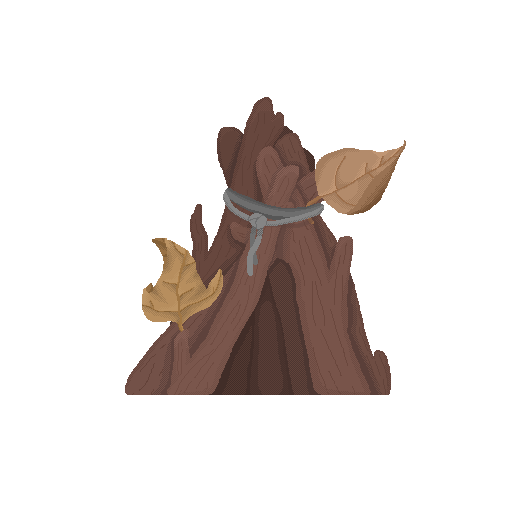
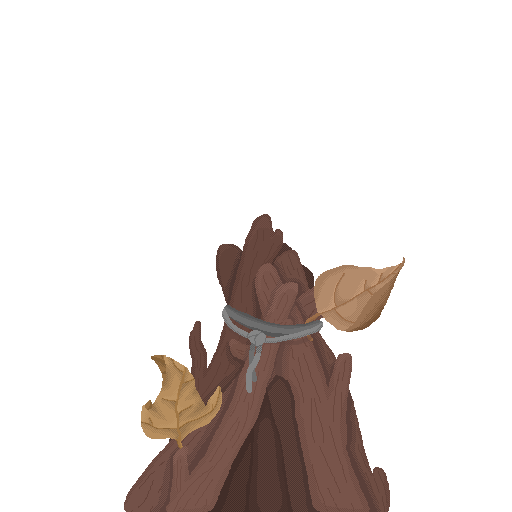
Building Art is on Bottom of Sprite
- Added placeholder art for woodpile and stonepiles

Changed region(s): [[0.2188, 0.1875, 0.8125, 1.0]]

diff --git a/RoyalRodents/Assets/Scripts/Buildings/bStonePile.cs b/RoyalRodents/Assets/Scripts/Buildings/bStonePile.cs
@@ -34,7 +34,7 @@ public class bStonePile : MonoBehaviour
 			//Set Upgrade/Build Costs (1-3 levels)
 			_costLevel1.Add(ResourceManagerScript.ResourceType.Trash, 1);
 
-			_builtSpriteLevel1 = Resources.Load<Sprite>("Buildings/Banner/trash_banner");
+			_builtSpriteLevel1 = Resources.Load<Sprite>("Buildings/StonePile/stone_pile");
 
 			_isSet = true;
 		}

diff --git a/RoyalRodents/Assets/Scripts/Buildings/bWoodPile.cs b/RoyalRodents/Assets/Scripts/Buildings/bWoodPile.cs
@@ -34,7 +34,7 @@ public class bWoodPile : MonoBehaviour
 			//Set Upgrade/Build Costs (1-3 levels)
 			_costLevel1.Add(ResourceManagerScript.ResourceType.Trash, 1);
 
-			_builtSpriteLevel1 = Resources.Load<Sprite>("Buildings/Banner/trash_banner");
+			_builtSpriteLevel1 = Resources.Load<Sprite>("Buildings/WoodPile/wood_pile");
 
 			_isSet = true;
 		}
